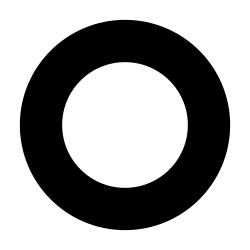
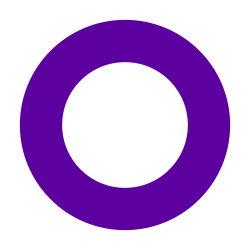
lekcja

diff --git a/26.9.29/index.html b/26.9.29/index.html
@@ -8,12 +8,36 @@
 </head>
 
 <body>
+    W mojej szkole jest fajnie bo:
     <ul>
-        <li>A</li>
-        <li>B</li>
-        <li>C</li>
-        <li>D</li>
+        <li>Są pociongi.</li>
+        <li>Lubie pociongi.</li>
+        <li>Pociongi są szybkie.</li>
+        <li>Pociongi są długie.</li>
     </ul>
+
+    Moi koledzy to:
+    <ol>
+        <li>Tomek</li>
+        <li>Hubert</li>
+        <li>Rafał</li>
+    </ol>
+
+    <dl>
+        <dt>Tomek</dt>
+        <dd>Lubi 67 i Geoerge'a Floyd'a</dd>
+
+        <dt>Hubert</dt>
+        <dd>Nosi okulary. To tyle xD</dd>
+
+        <dt>Rafał</dt>
+        <dd>Karpat.</dd>
+    </dl>
+
+    <hr>
+    <a href="https://zset.leszno.pl">ZSET</a>
+    <br><a href="https://zset.leszno.pl" target="_blank">ZSET, ale w nowym oknie</a>
+    <br><a href="kontakt.html">Kontakt</a>
 </body>
 
 </html>

diff --git a/ttt/style.css b/ttt/style.css
@@ -62,15 +62,19 @@ footer{
   background-size: 90%;
   background-position: center;
   background-repeat: no-repeat;
+
+  /*TEST*/
+  filter: brightness(0%);
 }
 .box div.colored{
-  filter: invert(100%) sepia(100%) saturate(200000000%) brightness(50%) hue-rotate(190deg);
+  /* filter: invert(100%) sepia(100%) saturate(200000000%) brightness(50%) hue-rotate(190deg); */
+  filter: none;
 }
 
 button{
   width: 20%;
   height: 6%;
-  min-width: 400px;
+  min-width: 200px;
 
   /* margin: 5% auto; */
   display: block;
@@ -95,8 +99,9 @@ button{
   background-color: #8a8a8a;
   color: #000000;
 
-  width: 15%;
-  height: 8%;
+  width: 5%;
+  /* height: 8%; */
+  aspect-ratio: 10;
 
   display: grid;
   grid-template-columns: 1fr 2fr 1fr;

diff --git a/26.9.29/kontakt.html b/26.9.29/kontakt.html
@@ -1,0 +1,18 @@
+<!DOCTYPE html>
+<html lang='en'>
+<head>
+    <meta charset='utf-8'>
+    <meta name='viewport' content='width=device-width, initial-scale=1'>
+    <title>Kontakt</title>
+    <link rel='stylesheet' href='main.css'>
+</head>
+
+<body>
+    Moje dane:
+    <ul>
+        <li>tel: 777 777 777</li>
+        <li>email: <a href="mailto:mail@mail.com">mail@mail.com</a></li>
+    </ul>
+</body>
+
+</html>
